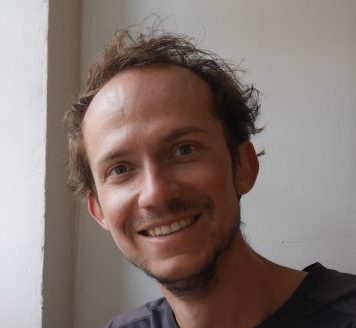
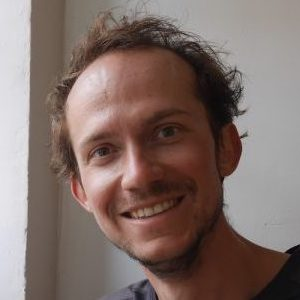
changed color scheme

diff --git a/index.html b/index.html
@@ -2,7 +2,7 @@
 <html>
 <head>
   <meta charset="UTF-8">
-  <title>Charles Marcoin TEST</title>
+  <title>Charles Marcoin</title>
   <link href="https://fonts.googleapis.com/css?family=Open+Sans:300,400|Roboto:400,700" rel="stylesheet">
   <script src="https://use.fontawesome.com/fcbaffdb84.js"></script>
   <link rel="stylesheet" href="style.css">
@@ -12,12 +12,11 @@
   <div class="container">
   <div class="card-white text-center">
     <img src="images/charles.jpg" alt="Charles" class="image-circle" id="profile_pic">
-    <h1>Charles Marcoin TEST</h1>
+    <h1>Charles Marcoin</h1>
     <h2>Développeur Ruby Fullstack</h2>
     <p>
     After a few years working as a Digital Marketing Manger, got bored and decided to do a one year trip around the world and become a <strong>fullstack web developper</strong>
     </p>
-
     <a class="btn-red" href="http://www.tripapattes.fr">- See for yourself -</a>
   </div>
 
@@ -40,9 +39,9 @@
     </div>
 
     <div class="card-white text-center">
+    <p class="text-top-left">2014-2016</p>
      <img src="images/Johnson_and_Johnson_logo.png" alt="Charles" class="image-top-right-corner">
       <table>
-        <tr>-</tr>
         <tr>
           <h3>Responsable Marketing Digital</h3>
         </tr>
@@ -50,8 +49,11 @@
           <td>
             <ul>
             <li>Pilotage achat media digital toutes marques (Budget annuel de 5 millions d’euros).</li>
+            <hr>
             <li>Déploiement et paramétrage des outils de tracking et monitoring.</li>
+            <hr>
             <li>Création des KPI, reportings et production d’analyses pour prise de décision.</li>
+            <hr>
             <li>Déploiement de programmes eCRM (Architecture Adobe Campaigns + JanRain).</li>
             </ul>
           </td>

diff --git a/style.css b/style.css
@@ -2,8 +2,8 @@
 We start with the body since it will apply on all the website */
 
 body {
-  background: #EBEBEB;
-  color: rgb(30, 30, 30);
+  background: #011627;
+  color: #222831;
   font-family: Helvetica;
   font-size: 17px;
   font-weight: lighter;
@@ -16,12 +16,17 @@ h1, h2, h3 {
 }
 
 h1 {
-  color: #DF5452;
+  color: #E71D36;
   font-size: 24px;
 }
 
 h2 {
   font-size: 20px;
+}
+
+h3 {
+  display: inline-block;
+  margin-top: 30px;
 }
 
 a {
@@ -43,7 +48,7 @@ a:hover {
 .card-white {
   /*width: 500px;*/
   margin: 10px 0 10px 0;
-  background: white;                          /* White background */
+  background: #FDFFFC;                        /* White background */
   padding: 30px;                              /* Internal space */
   border-radius: 4px;                         /* Small radius */
   box-shadow: 1px 1px 3px rgba(0, 0, 0, 0.1); /* Subtle shadow */
@@ -61,7 +66,7 @@ a:hover {
 #profile_pic {
   width: 150px;
   box-shadow: 1px 1px 1px rgba(0, 0, 0, 0.1); /* Subtle shadow */
-  border: 1px solid rgba(0, 0, 0, 0.1);
+  border: 2px solid rgba(0, 0, 0, 0.3);
 }
 
 .image-circle {
@@ -69,7 +74,10 @@ a:hover {
 }
 
 .btn-red {
-  background: #DF5452;
+  display: inline-block;
+  margin-top: 10px;
+  margin-bottom: 10px;
+  background: #E71D36;
   padding: 10px 20px;
   color: white;
   font-weight: bold;
@@ -78,7 +86,7 @@ a:hover {
 }
 
 .btn-red:hover {
-  background: #7a1d1d;
+  background: #004A7C;
   color: white;
 }
 
@@ -101,6 +109,14 @@ a:hover {
   text-align: left;
 }
 
+.text-top-left {
+  position: absolute;
+  top: 0;
+  left: 0;
+  padding: 15px 0 0 15px;
+  margin: 0;
+  }
+
 .image-top-right-corner {
   position: absolute;
   top: 0;
@@ -108,5 +124,7 @@ a:hover {
   padding: 15px 15px 0 0;
 }
 
-
+.fa {
+  color: black;
+}
 
